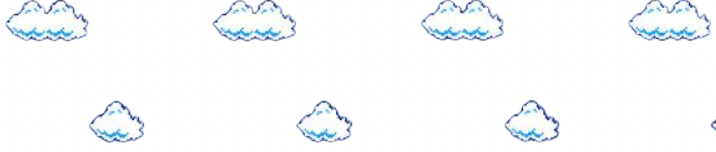
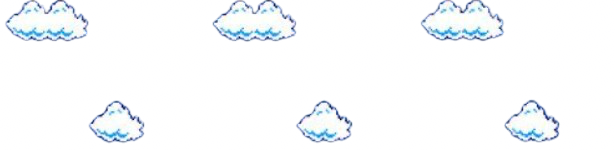
risoloto misure di grandezza

diff --git a/superMario2d.html b/superMario2d.html
@@ -12,17 +12,18 @@
         #terreno{
             background-image: url('mattoncinoSuperMario2D.png');
             width: 620px; height: 120px;
-            margin-top: 33em;
-            
+            position: absolute;
+            top: 33em;
         }
         #terreno2{
             background-image: url('mattoncinoSuperMario2D.png');
+            position: absolute;
+            top: 40.5em;
             height: 120px; width: 1500px;
         }
-        img{
-            position: absolute;
-            width: 1900px; height: 120px;
-            margin-top: -33em;
+        #nuvole{
+            background-image: url("cieloSuperMario2D.png");
+            width: 1900px; height: 300px;
         }
         #superMario{
             background-image: url('superMario2D.png');
@@ -30,7 +31,6 @@
             width: 50px;
             position: absolute;
             top: 465px;
-
         }
         p{
             margin: 1em;
@@ -38,9 +38,28 @@
             color: white;
             font-size: 20px;
         }
+        #sfondoMenu{
+            position: fixed;
+            top: 0px;
+            background-color: rgba(0, 0, 0, 0.365);
+            width: 100%;
+            height: 100vh;
+        }
+        #sfondoMenu div{
+            margin: 25%;
+            height: 50%;
+            width: 50%;
+            background-color: aliceblue;
+        }
+        #tastoGioca{
+            margin: 40% 0;
+            height: 20%;
+            width: 100px;
+        }
     </style>
     <script>
         "use strict";
+        let statoGioco=false;
         let superMarioX = 0;
         let superMarioY;
         let superMario;
@@ -59,28 +78,35 @@
         }
         let altezzaSalto=80; // Altezza del salto
         function pigiato(evento){
-            if(evento.key == 'w' || evento.key == ' '){
-                if(verificaCollisione()){
-                    // Salto verso l'alto
-                    superMarioY -= altezzaSalto;
-                    superMario.style.top = superMarioY + "px";
-                    setTimeout(abbassa,durataSalto);
+            //stato gioco indica se il gioco è avviato o se è in pausa
+            if(statoGioco){
+
+                if(evento.key == 'w' || evento.key == ' '){
+                    if(verificaCollisione()){
+                        // Salto verso l'alto
+                        superMarioY -= altezzaSalto;
+                        superMario.style.top = superMarioY + "px";
+                        superMario.style.left=superMarioX + "px";
+                        setTimeout(abbassa,durataSalto);
+                    }
+                    let durataSalto = 300;
                 }
-                let durataSalto = 300;
-            }
-	        if(evento.key == 's'){
-                if (!verificaCollisione()) {
-                        superMarioY += 10;
-                        superMario.style.top = superMarioY + "px";    
+                if(evento.key == 's'){
+                    if (!verificaCollisione()) {
+                            superMarioY += 10;
+                            superMario.style.top = superMarioY + "px";    
+                    }
                 }
+                if(evento.key == 'a'){
+                    superMarioX-=10; superMario.style.left = superMarioX +"px";
+                }
+                if(evento.key == 'd'){ 
+                    superMarioX+=10; superMario.style.left = superMarioX +"px";
+                    window.scrollTo(superMarioX - window.innerWidth / 2, superMarioY);
+                }
+            
             }
-	        if(evento.key == 'a'){
-                superMarioX-=10; superMario.style.left = superMarioX +"px";
-            }
-	        if(evento.key == 'd'){ 
-                superMarioX+=10; superMario.style.left = superMarioX +"px";
-                window.scrollTo(superMarioX - window.innerWidth / 2, superMarioY);
-            }
+            
         }
         function abbassa(){
             superMarioY+=altezzaSalto;
@@ -102,15 +128,22 @@
             );
         }
         function gravita() {
-            if (!verificaCollisione()) {
+            if (!verificaCollisione() && statoGioco) {
                 superMarioY += 5; // velocità di caduta
                 superMario.style.top = superMarioY + "px";
             }
+            gameOver();
         }
         function gameOver(){
             if(superMario.getBoundingClientRect().bottom >= window.innerHeight){
-
+                statoGioco=false;
+                document.getElementById("sfondoMenu").style.display="block";
             }
+        }
+        function inizioGioco(){
+            statoGioco=true;
+            document.getElementById("sfondoMenu").style.display="none";
+
         }
 
     </script>
@@ -119,13 +152,14 @@
         <div id="superMario"></div>
         <div id="terreno"></div>
         <div id="terreno2"></div>
+
         <div id="sfondoMenu">
             <div>
-                <button id="tastoGioca"> </button>
+                <button id="tastoGioca" onclick="inizioGioco()">Giocare</button>
             </div>
-            
         </div>
-        <img src="cieloSuperMario2D.png" alt="cielo" >
+
+        <div id="nuvole"></div>
         <audio src="Super Mario Bros. Theme Song.mp3" id="themeSong" ></audio>
     </body>
 </html>
